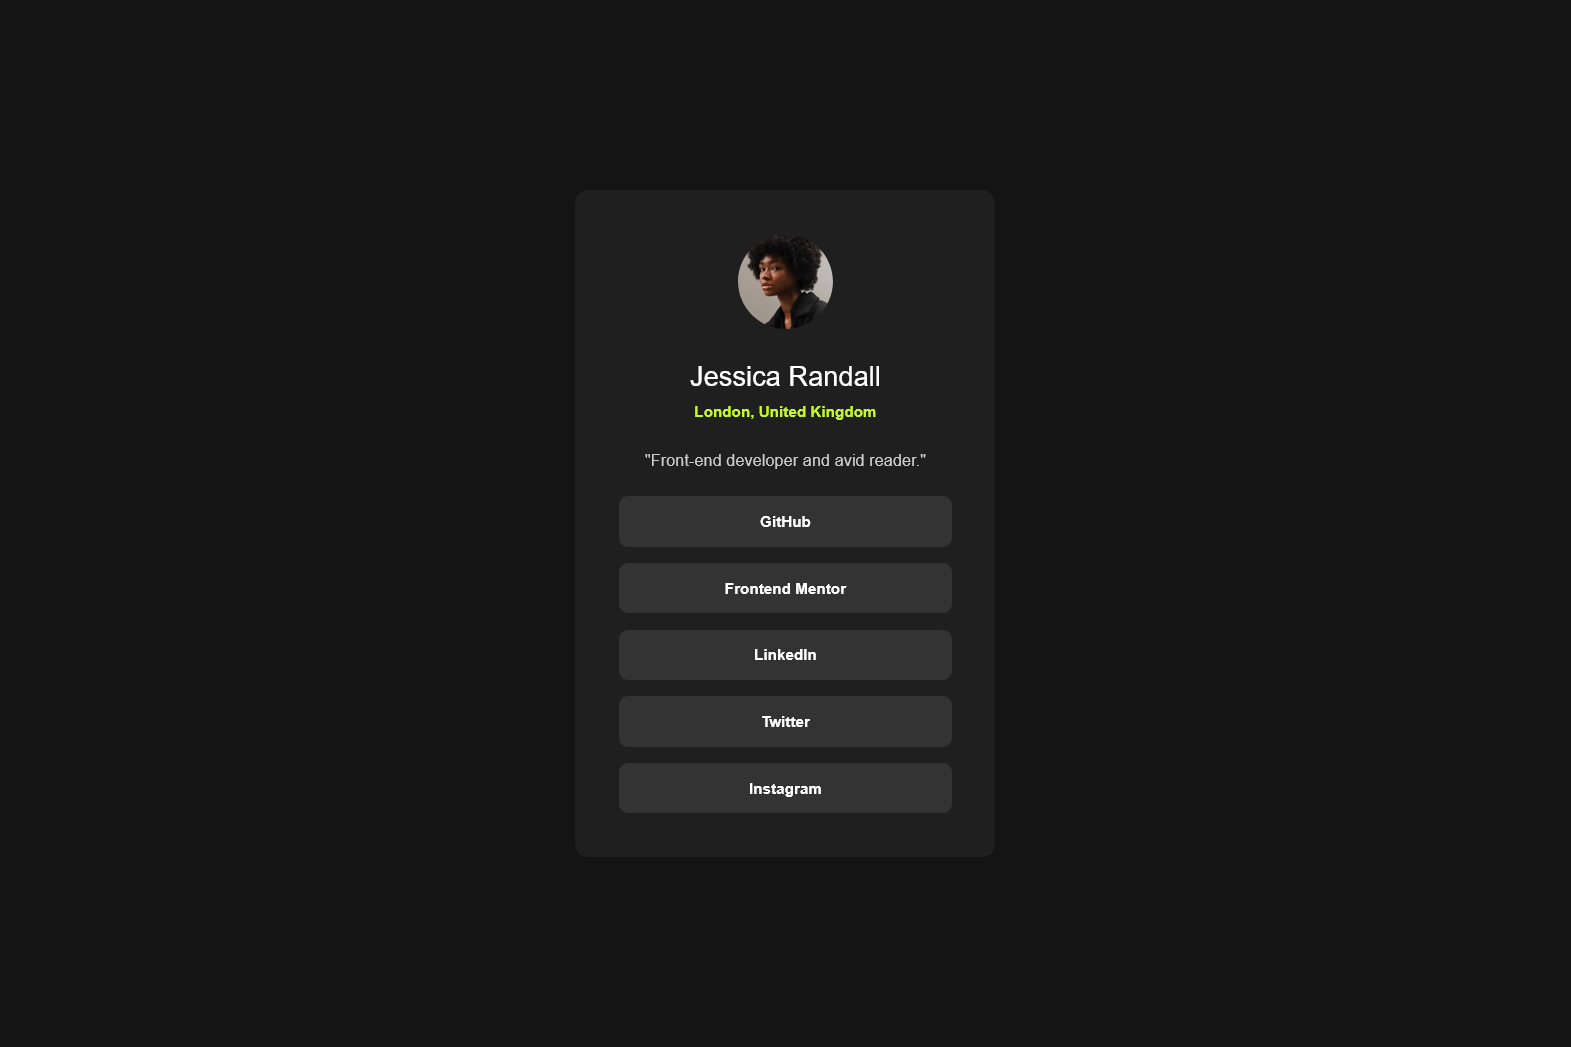
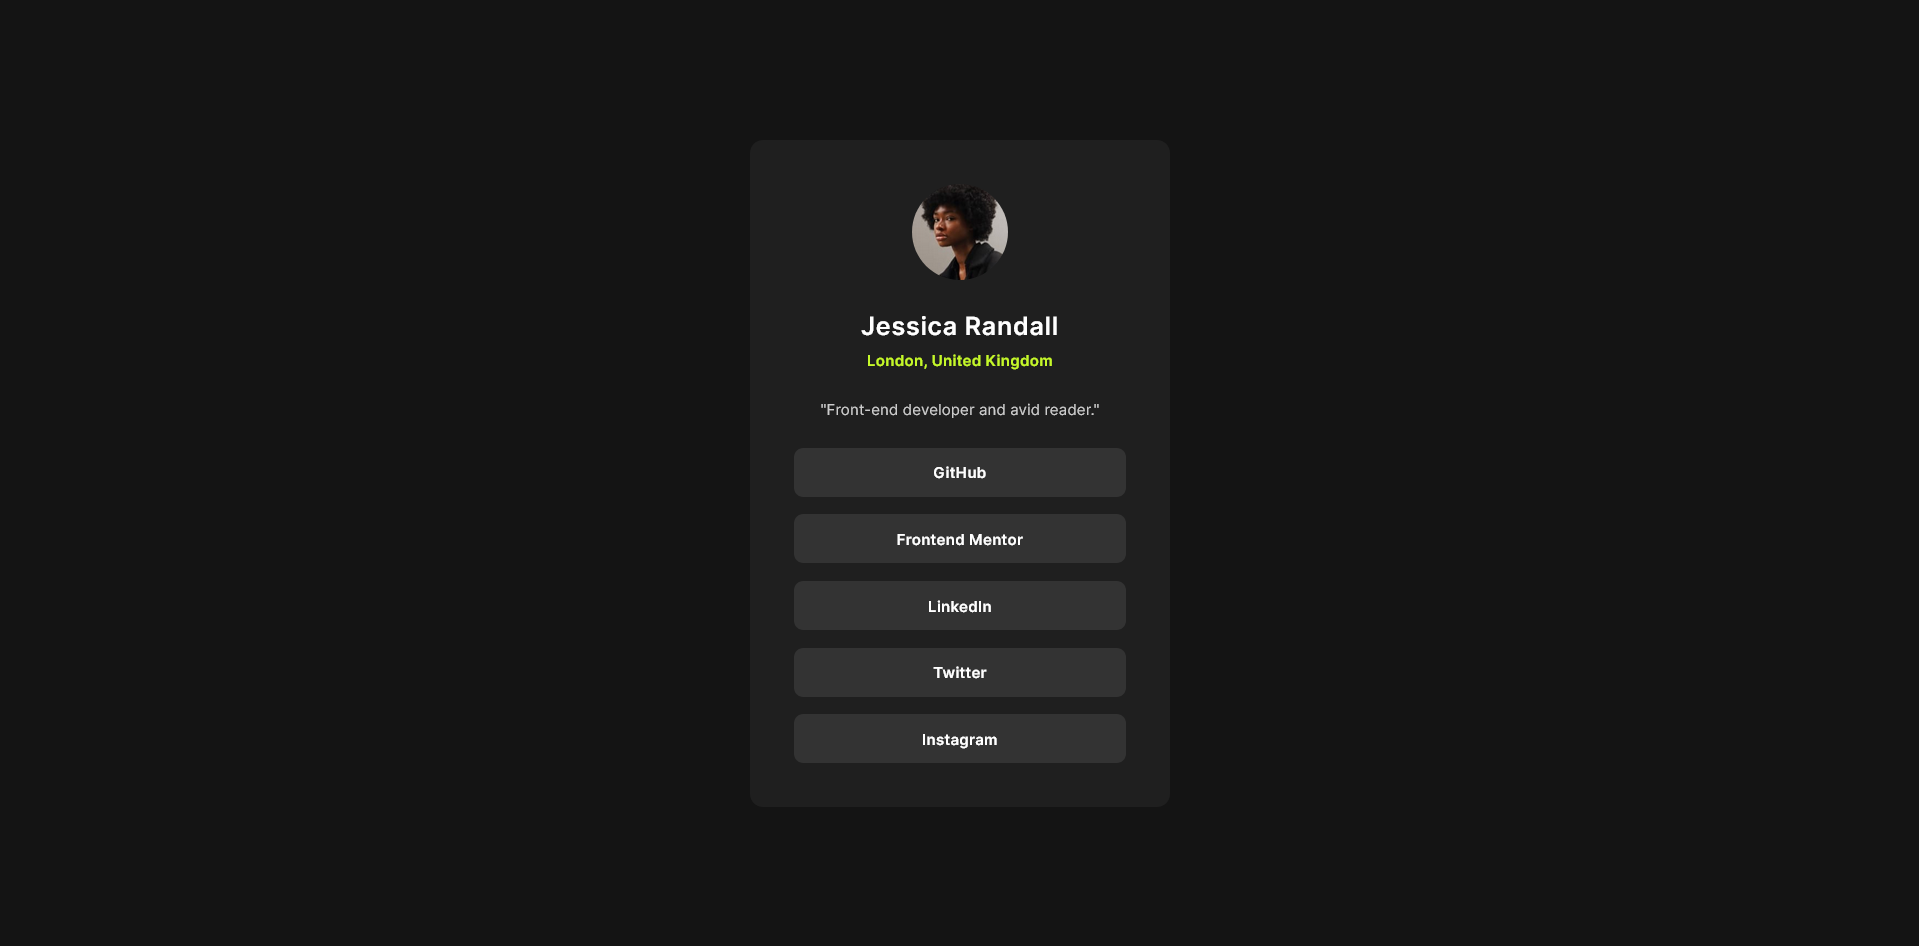
Update

diff --git a/Solution03/src/style.css b/Solution03/src/style.css
@@ -234,10 +234,10 @@ summary,
 
 @font-face {
   font-family: "Inter";
-  src: url(assets/fonts/Inter-VariableFont_slntwght.ttf);
+  src: url(assets/fonts/Inter-VariableFont_slnt\,wght.ttf);
 }
 body {
-  font-family: "Inter", sans-serif;
+  font-family: "Inter";
 }
 body main {
   background-color: hsl(0, 0%, 8%);
@@ -247,7 +247,7 @@ body main {
   justify-content: center;
   padding-inline: 2.5rem;
 }
-body main .profile {
+body main article {
   background-color: hsl(0, 0%, 12%);
   display: flex;
   flex-direction: column;
@@ -258,67 +258,70 @@ body main .profile {
   width: 100%;
   max-width: 385px;
 }
-body main .profile img {
+body main article img {
   border-radius: 50%;
-  width: 8.75rem;
+  width: 8.8rem;
   cursor: pointer;
   transition: all 0.2s;
 }
-body main .profile img:hover {
+body main article img:hover {
   transform: scale(110%);
   outline: 2px solid hsl(75, 94%, 57%);
   outline-offset: 3px;
 }
-body main .profile img:focus {
+body main article img:focus {
   transform: scale(110%);
   outline: 2px solid hsl(75, 94%, 57%);
   outline-offset: 3px;
 }
-body main .profile h1 {
+body main article h1 {
   color: #fff;
-  font-size: 2.5rem;
-  margin-block: 2.85rem 1rem;
-  font-weight: 500;
+  font-size: 23.25px;
+  letter-spacing: 0.5px;
+  margin-block: 2.85rem 1.1rem;
+  font-weight: 600;
 }
-body main .profile span {
+body main article span {
   color: hsl(75, 94%, 57%);
+  letter-spacing: 0.15px;
   font-size: 1.4rem;
   font-weight: 600;
-  margin-bottom: 2.75rem;
+  margin-bottom: 2.9rem;
 }
-body main .profile p {
+body main article p {
   color: #ccc;
-  font-size: 1.5rem;
+  font-size: 1.4rem;
   font-weight: 400;
-  margin-bottom: 2.5rem;
+  margin-bottom: 2.65rem;
 }
-body main .profile .links {
+body main article .links {
   display: flex;
   flex-direction: column;
-  gap: 1.5rem;
+  gap: 1.6rem;
   width: 100%;
   text-align: center;
 }
-body main .profile .links a {
+body main article .links a {
   background-color: hsl(0, 0%, 20%);
   color: #fff;
   font-size: 1.4rem;
+  letter-spacing: 0.15px;
   font-weight: 600;
   border-radius: 0.85rem;
-  padding-block: 1.5rem;
+  padding-block: 1.5rem 1.4rem;
   transition: all 0.2s;
 }
-body main .profile .links a:hover {
+body main article .links a:hover {
   background-color: hsl(75, 94%, 57%);
   color: #000;
 }
-body main .profile .links a:focus {
+body main article .links a:focus {
   background-color: hsl(75, 94%, 57%);
   color: #000;
 }
 
 @media screen and (width >= 425px) {
-  .profile {
+  article {
     padding: 4rem !important;
   }
 }/*# sourceMappingURL=style.css.map */

diff --git a/Solution03/src/style.scss b/Solution03/src/style.scss
@@ -3,11 +3,11 @@
 
 @font-face {
     font-family: "Inter";
-    src: url(assets/fonts/Inter-VariableFont_slnt\wght.ttf);
+    src: url(assets/fonts/Inter-VariableFont_slnt\,wght.ttf);
 }
 
 body {
-    font-family: "Inter", sans-serif;
+    font-family: "Inter";
 
     main {
         background-color: hsl(0, 0%, 8%);
@@ -17,7 +17,7 @@ body {
         justify-content: center;
         padding-inline: 2.5rem;
 
-        .profile {
+        article {
             background-color: hsl(0, 0%, 12%);
             display: flex;
             flex-direction: column;
@@ -30,7 +30,7 @@ body {
 
             img {
                 border-radius: 50%;
-                width: 8.75rem;
+                width: 8.8rem;
                 cursor: pointer;
                 transition: all 0.2s;
 
@@ -49,29 +49,31 @@ body {
 
             h1 {
                 color: #fff;
-                font-size: 2.5rem;
-                margin-block: 2.85rem 1rem;
-                font-weight: 500;
+                font-size: 23.25px;
+                letter-spacing: 0.5px;
+                margin-block: 2.85rem 1.1rem;
+                font-weight: 600;
             }
-
+            
             span {
                 color: hsl(75, 94%, 57%);
+                letter-spacing: 0.15px;
                 font-size: 1.4rem;
                 font-weight: 600;
-                margin-bottom: 2.75rem;
+                margin-bottom: 2.9rem;
             }
 
             p {
                 color: #ccc;
-                font-size: 1.5rem;
+                font-size: 1.4rem;
                 font-weight: 400;
-                margin-bottom: 2.5rem;
+                margin-bottom: 2.65rem;
             }
 
             .links {
                 display: flex;
                 flex-direction: column;
-                gap: 1.5rem;
+                gap: 1.6rem;
                 width: 100%;
                 text-align: center;
 
@@ -79,9 +81,10 @@ body {
                     background-color: hsl(0, 0%, 20%);
                     color: #fff;
                     font-size: 1.4rem;
+                    letter-spacing: 0.15px;
                     font-weight: 600;
                     border-radius: 0.85rem;
-                    padding-block: 1.5rem;
+                    padding-block: 1.5rem 1.4rem;
                     transition: all 0.2s;
 
                     &:hover {
@@ -100,7 +103,7 @@ body {
 }
 
 @media screen and (width >= 425px) {
-    .profile {
+    article {
         padding: 4rem !important;
     }
 }

diff --git a/Solution03/src/index.html b/Solution03/src/index.html
@@ -6,15 +6,15 @@
         <meta http-equiv="X-UA-Compatible" content="IE=edge" />
         <meta name="viewport" content="width=device-width, initial-scale=1.0" />
 
-        <title>Social Links Profile</title>
         <link rel="icon" type="image/x-icon" href="assets/images/favicon-32x32.png" />
+        <title>Social Links Profile</title>
 
         <link rel="stylesheet" href="style.css" />
     </head>
 
     <body>
         <main>
-            <div class="profile">
+            <article class="profile">
                 <img tabindex="0" src="assets/images/avatar-jessica.jpeg" alt="Avatar" />
                 <h1>Jessica Randall</h1>
                 <span>London, United Kingdom</span>
@@ -26,7 +26,7 @@
                     <a tabindex="0" href="#">Twitter</a>
                     <a tabindex="0" href="#">Instagram</a>
                 </div>
-            </div>
+            </>
         </main>
     </body>
 </html>

diff --git a/Solution03/README.md b/Solution03/README.md
@@ -1,37 +1,18 @@
-# Frontend Mentor - Social links profile solution
+# Frontend Mentor - "Social Links Profile" solution
 
-This is a solution to the [Social links profile challenge on Frontend Mentor](https://www.frontendmentor.io/challenges/social-links-profile-UG32l9m6dQ). Frontend Mentor challenges help you improve your coding skills by building realistic projects. 
+This is a solution to the ["Social Links Profile" challenge on Frontend Mentor](https://www.frontendmentor.io/challenges/social-links-profile-UG32l9m6dQ).
 
-## Table of contents
-
-- [Overview](#overview)
-  - [The challenge](#the-challenge)
-  - [Screenshot](#screenshot)
-  - [Links](#links)
-- [My process](#my-process)
-  - [Built with](#built-with)
-
-## Overview
-
-### The challenge
+## The challenge
 
 Users should be able to:
 
-- See hover and focus states for all interactive elements on the page
+-   See hover and focus states for all interactive elements on the page
+
+## Links
+
+-   Solution URL: [https://www.frontendmentor.io/solutions/social-links-profile-html-scss-aykKgGgehL](https://www.frontendmentor.io/solutions/social-links-profile-html-scss-aykKgGgehL)
+-   Live Site URL: [https://redened.github.io/Frontend.Mentor/Solution03/src/](https://redened.github.io/Frontend.Mentor/Solution03/src/)
 
 ### Screenshot
 
-![](Desktop.png)
-
-### Links
-
-- Solution URL: [https://www.frontendmentor.io/solutions/social-links-profile-html-scss-aykKgGgehL](https://www.frontendmentor.io/solutions/social-links-profile-html-scss-aykKgGgehL)
-- Live Site URL: [https://redened.github.io/Frontendmentor-Project03/src/](https://redened.github.io/Frontendmentor-Project03/src/)
-
-## My process
-
-### Built with
-
-- Semantic HTML5 markup
-- SCSS
-- Mobile-first workflow
+![](../Screenshots/Solution03.png)

diff --git a/Solution01/README.md b/Solution01/README.md
@@ -4,8 +4,8 @@ This is a solution to the ["QR Code Component" challenge on Frontend Mentor](htt
 
 ## Links
 
-- Solution URL: [https://www.frontendmentor.io/solutions/qr-code-component-scss-0DVzjgxYFi](https://www.frontendmentor.io/solutions/qr-code-component-scss-0DVzjgxYFi)
-- Live Site URL: [https://redened.github.io/Frontend.Mentor/Solution01/src/](https://redened.github.io/Frontend.Mentor/Solution01/src/)
+-   Solution URL: [https://www.frontendmentor.io/solutions/qr-code-component-scss-0DVzjgxYFi](https://www.frontendmentor.io/solutions/qr-code-component-scss-0DVzjgxYFi)
+-   Live Site URL: [https://redened.github.io/Frontend.Mentor/Solution01/src/](https://redened.github.io/Frontend.Mentor/Solution01/src/)
 
 ### Screenshot
 

diff --git a/Solution02/README.md b/Solution02/README.md
@@ -15,7 +15,7 @@ Users should be able to:
 
 ### Screenshot
 
-![Desktop](../Screenshots/Solution02.png)
+![](../Screenshots/Solution02.png)
 
 ### What I learned
 
@@ -23,7 +23,7 @@ You can make HTML elements TAB focusable using the "tabindex" attribute.
 
 tabindex="0" will adhere to DOM order of elements when focusing.
 
-tabindex="1", tabindex="2", tabindex="3"... will force the order according to the attribute value. 
+tabindex="1", tabindex="2", tabindex="3"... will force the order according to the attribute value.
 (while also forcing the first focus to be the element with value "1", bypassing other elements that could also be focused before it.)
 
 ```html
